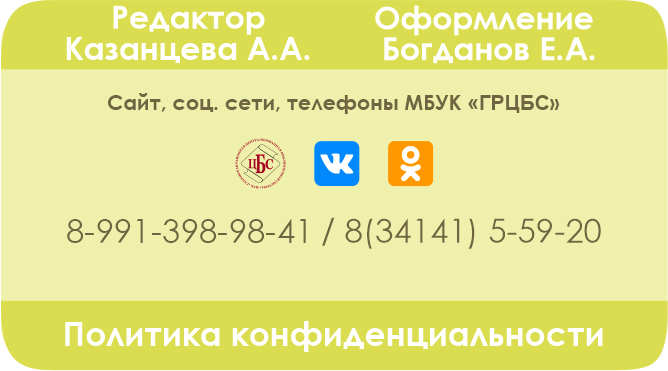
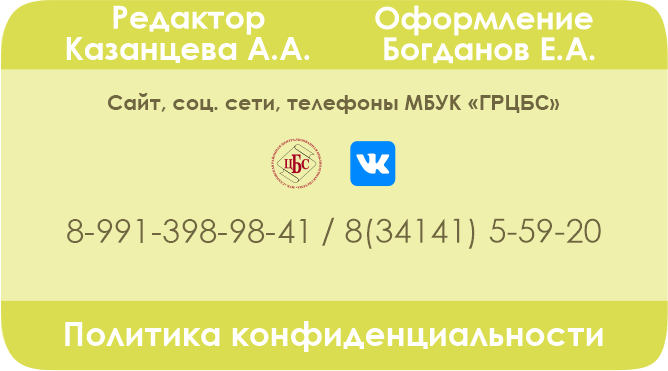
N26022024

Changed region(s): [[0.3293, 0.3558, 0.6587, 0.504]]

diff --git a/index.html b/index.html
@@ -86,11 +86,11 @@ $(document).ready(function()
 </div>
 </div>
 <div id="container">
-<div id="LayerTexth1" style="position:absolute;text-align:left;left:0px;top:0px;width:573px;height:51px;z-index:56;">
+<div id="LayerTexth1" style="position:absolute;text-align:left;left:0px;top:0px;width:573px;height:51px;z-index:55;">
 <div id="wb_Кузьым_нылпи_газет" style="position:absolute;left:18px;top:7px;width:539px;height:37px;z-index:0;">
 <h1>Кузьым нылпи интернет газет</h1></div>
 </div>
-<div id="FonovyiSloy" style="position:absolute;text-align:left;left:0px;top:20px;width:980px;height:844px;z-index:57;">
+<div id="FonovyiSloy" style="position:absolute;text-align:left;left:0px;top:20px;width:980px;height:844px;z-index:56;">
 <div id="wb_ImageRazgovor" style="position:absolute;left:117px;top:442px;width:483px;height:237px;z-index:3;">
 <a href="#" onmouseover="Animate('wb_Image5g', '10', '35', '', '', '', 290, '-20');Animate('wb_Image4g', '20', '35', '', '', '', 300, '-20');return false;" onmouseout="Animate('wb_Image5g', '30', '11', '', '', '', 700, '0');Animate('wb_Image4g', '35', '10', '', '', '', 700, '0');return false;"><img src="images/Razgovor.svg" id="ImageRazgovor" alt="" style="-moz-user-select: none; -webkit-user-select: none; -ms-user-select: none; user-select: none;"></a></div>
 <div id="wb_ImageRamkaFonIndex" style="position:absolute;left:0px;top:10px;width:970px;height:684px;z-index:4;">
@@ -224,11 +224,11 @@ function TimerStopTimerGlazaVykl()
 </script>
 
 </div>
-<div id="wb_UhoL" style="position:absolute;left:739px;top:304px;width:134px;height:120px;z-index:58;">
+<div id="wb_UhoL" style="position:absolute;left:739px;top:304px;width:134px;height:120px;z-index:57;">
 <img src="images/UhoL.svg" id="UhoL" alt="" style="-moz-user-select: none; -webkit-user-select: none; -ms-user-select: none; user-select: none;"></div>
-<div id="wb_UhoP" style="position:absolute;left:585px;top:386px;width:134px;height:132px;z-index:59;">
+<div id="wb_UhoP" style="position:absolute;left:585px;top:386px;width:134px;height:132px;z-index:58;">
 <img src="images/UhoP.svg" id="UhoP" alt="" style="-moz-user-select: none; -webkit-user-select: none; -ms-user-select: none; user-select: none;"></div>
-<div id="LayerSloyKota" style="position:absolute;text-align:left;left:599px;top:378px;width:393px;height:345px;z-index:60;">
+<div id="LayerSloyKota" style="position:absolute;text-align:left;left:599px;top:378px;width:393px;height:345px;z-index:59;">
 <div id="wb_ImageTeloKota" style="position:absolute;left:9px;top:10px;width:361px;height:326px;z-index:35;">
 <img src="images/kot.svg" id="ImageTeloKota" alt="" style="-moz-user-select: none; -webkit-user-select: none; -ms-user-select: none; user-select: none;"></div>
 <div id="LayerGlazL" style="position:absolute;text-align:left;left:168px;top:60px;width:113px;height:112px;z-index:36;">
@@ -250,41 +250,39 @@ function TimerStopTimerGlazaVykl()
 <div id="LayerUsyL_Skrytyi" style="position:absolute;text-align:left;left:248px;top:149px;width:108px;height:90px;z-index:42;" onmouseover="Animate('wb_Image5g', '47', '45', '', '', '', 290, '0');Animate('wb_Image4g', '55', '45', '', '', '', 300, '0');AnimateCss('wb_ImageUsyL', 'transform-wobble-top', 0, 300);return false;" onmouseout="Animate('wb_Image5g', '30', '11', '', '', '', 700, '0');Animate('wb_Image4g', '35', '10', '', '', '', 700, '0');return false;">
 </div>
 </div>
-<div id="wb_Line2" style="position:absolute;left:969px;top:90px;width:4px;height:626px;z-index:61;">
+<div id="wb_Line2" style="position:absolute;left:969px;top:90px;width:4px;height:626px;z-index:60;">
 <svg id="Line2" height="626" width="4" version="1.1" xmlns="http://www.w3.org/2000/svg">
    <line x1="0" y1="0" x2="1" y2="626" style="stroke:#D8DE3F;stroke-width:4"/>
 </svg>
 </div>
-<div id="LayerInformaciya" style="text-align:left;width:536px;height:329px;z-index:62;">
+<div id="LayerInformaciya" style="text-align:left;width:536px;height:329px;z-index:61;">
 <div id="wb_ShapeInfoPolitika" style="position:absolute;left:52px;top:276px;width:433px;height:19px;opacity:0.00;z-index:47;">
 <a href="./politica.html" target="_blank"><img src="images/img0003.png" id="ShapeInfoPolitika" alt="" style="width:433px;height:19px;"></a></div>
-<div id="wb_ShapeInfoSayt" style="position:absolute;left:189px;top:127px;width:40px;height:40px;z-index:48;">
+<div id="wb_ShapeInfoSayt" style="position:absolute;left:218px;top:127px;width:40px;height:40px;z-index:48;">
 <a href="http://glazovskaya-cbs.udm.muzkult.ru" target="_blank"><img src="images/img0005.png" id="ShapeInfoSayt" alt="" style="width:40px;height:40px;"></a></div>
-<div id="wb_ShapeInfoVK" style="position:absolute;left:252px;top:128px;width:38px;height:38px;z-index:49;">
+<div id="wb_ShapeInfoVK" style="position:absolute;left:281px;top:128px;width:38px;height:38px;z-index:49;">
 <a href="https://vk.com/glazov.rayon.bibl" target="_blank"><img src="images/img0006.png" id="ShapeInfoVK" alt="" style="width:38px;height:38px;"></a></div>
-<div id="wb_ShapeInfoOD" style="position:absolute;left:312px;top:128px;width:38px;height:38px;z-index:50;">
-<a href="https://ok.ru/glazov.rayon.bibl" target="_blank"><img src="images/img0007.png" id="ShapeInfoOD" alt="" style="width:38px;height:38px;"></a></div>
-<div id="LayerZakrytInfo" style="position:absolute;text-align:left;left:505px;top:1px;width:30px;height:30px;z-index:51;-webkit-tap-highlight-color: rgba(255, 255, 255, 0) !important; 
+<div id="LayerZakrytInfo" style="position:absolute;text-align:left;left:505px;top:1px;width:30px;height:30px;z-index:50;-webkit-tap-highlight-color: rgba(255, 255, 255, 0) !important; 
 -webkit-focus-ring-color: rgba(255, 255, 255, 0) !important; 
 outline: none !important; cursor: pointer" onclick="$('#LayerInformaciya').dialog('close');return false;">
 </div>
-<button type="button" id="ThemeableButtonKarta" onclick="$('#LayerKarta1Str').dialog('open');return false;" name="Adres" value="Наш адрес" style="position:absolute;left:223px;top:224px;width:100px;height:25px;z-index:52;">Наш адрес</button>
-<div id="LayerKarta1Str" style="text-align:left;width:506px;height:291px;z-index:53;">
+<button type="button" id="ThemeableButtonKarta" onclick="$('#LayerKarta1Str').dialog('open');return false;" name="Adres" value="Наш адрес" style="position:absolute;left:223px;top:224px;width:100px;height:25px;z-index:51;">Наш адрес</button>
+<div id="LayerKarta1Str" style="text-align:left;width:506px;height:291px;z-index:52;">
 <!-- Karta -->
 <div id="HtmlKarta" style="position:absolute;left:10px;top:9px;width:486px;height:272px;overflow:hidden;z-index:45">
 <script charset="utf-8" async src="https://api-maps.yandex.ru/services/constructor/1.0/js/?um=constructor%3A974a84986e269bf1a9e0936792ff536a41655f9b5e7e2d41c7acc13a9dc3bf86&amp;width=500&amp;height=400&amp;lang=ru_RU&amp;scroll=true"></script></div>
 <button type="button" id="ThemeableButtonZakrytKarta" onclick="$('#LayerKarta1Str').dialog('close');return false;" name="AdresKarty" value="Закрыть карту" style="position:absolute;left:192px;top:252px;width:122px;height:25px;z-index:46;">Закрыть карту</button>
 </div>
 </div>
-<div id="LayerKnopkaInfoUDM" style="position:absolute;text-align:left;left:637px;top:10px;width:130px;height:28px;z-index:63;-webkit-tap-highlight-color: rgba(255, 255, 255, 0) !important; 
+<div id="LayerKnopkaInfoUDM" style="position:absolute;text-align:left;left:637px;top:10px;width:130px;height:28px;z-index:62;-webkit-tap-highlight-color: rgba(255, 255, 255, 0) !important; 
 -webkit-focus-ring-color: rgba(255, 255, 255, 0) !important; 
 outline: none !important; cursor: pointer" onclick="$('#LayerInformaciya').dialog('open');return false;">
 </div>
-<div id="LayerKnopkaInfoRUS" style="position:absolute;text-align:left;visibility:hidden;left:637px;top:10px;width:130px;height:28px;z-index:64;-webkit-tap-highlight-color: rgba(255, 255, 255, 0) !important; 
+<div id="LayerKnopkaInfoRUS" style="position:absolute;text-align:left;visibility:hidden;left:637px;top:10px;width:130px;height:28px;z-index:63;-webkit-tap-highlight-color: rgba(255, 255, 255, 0) !important; 
 -webkit-focus-ring-color: rgba(255, 255, 255, 0) !important; 
 outline: none !important; cursor: pointer" onclick="$('#LayerInformaciya').dialog('open');return false;">
 </div>
-<div id="LayerKnopkaArhiv" style="position:absolute;text-align:left;left:794px;top:9px;width:71px;height:29px;z-index:65;-webkit-tap-highlight-color: rgba(255, 255, 255, 0) !important; 
+<div id="LayerKnopkaArhiv" style="position:absolute;text-align:left;left:794px;top:9px;width:71px;height:29px;z-index:64;-webkit-tap-highlight-color: rgba(255, 255, 255, 0) !important; 
 -webkit-focus-ring-color: rgba(255, 255, 255, 0) !important; 
 outline: none !important; cursor: pointer" onclick="window.location.href='./Arhiv.html';return false;">
 </div>

diff --git a/css/index.css b/css/index.css
@@ -396,10 +396,6 @@ body
 {
    border-width: 0;
 }
-#ShapeInfoOD
-{
-   border-width: 0;
-}
 #LayerZakrytInfo
 {
    background-color: transparent;
